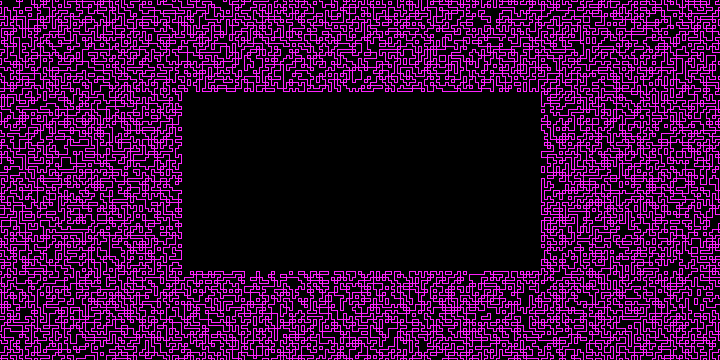
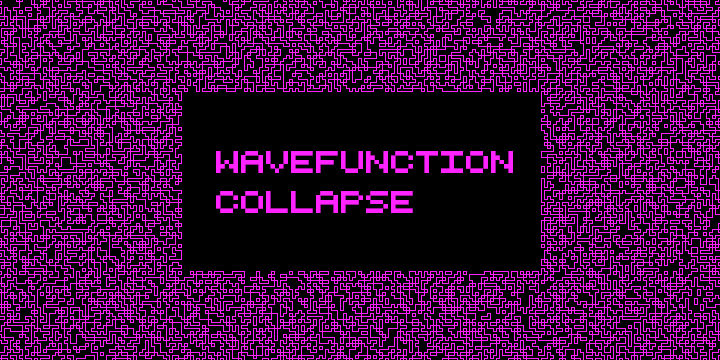
updated readme

Changed region(s): [[0.275, 0.3972, 0.7333, 0.4889], [0.275, 0.5194, 0.5806, 0.6111]]

diff --git a/wavefunction_collapse.py b/wavefunction_collapse.py
@@ -83,4 +83,4 @@ def wavefunction_collapse(tiles=None, tileset=None, x_dim=None, y_dim=None, dark
 
 if __name__ == "__main__":
     # tiles = [[0 if 0.25 * X_DIM < x < 0.75 * X_DIM and 0.25 * Y_DIM < y < 0.75 * Y_DIM else None for x in range(X_DIM)] for y in range(Y_DIM)]
-    wavefunction_collapse()
+    wavefunction_collapse(dark = (0,10,10), light=(15, 255, 125))

diff --git a/README.md b/README.md
@@ -1,0 +1,11 @@
+![Cover Art](cover.png)
+
+The goal of this project was to learn how to generate images using wavefunction collapse.
+It was built completely from scratch with no prior knowledge of how wavefunction collapse works or how to efficiently implement it.
+There will be updates in the future to add support for desired features including gradient color options, differently-sized tiles, image insertions, and dynamic tile generation.
+Additionally, many performance enhancements are planned before this project reaches its final state.
+
+So far, the generator allows the user to specify two colors, then it will then generate continuous patterns using those two colors.
+One example of such a generation is the following:
+
+![Example Image](img.png)
